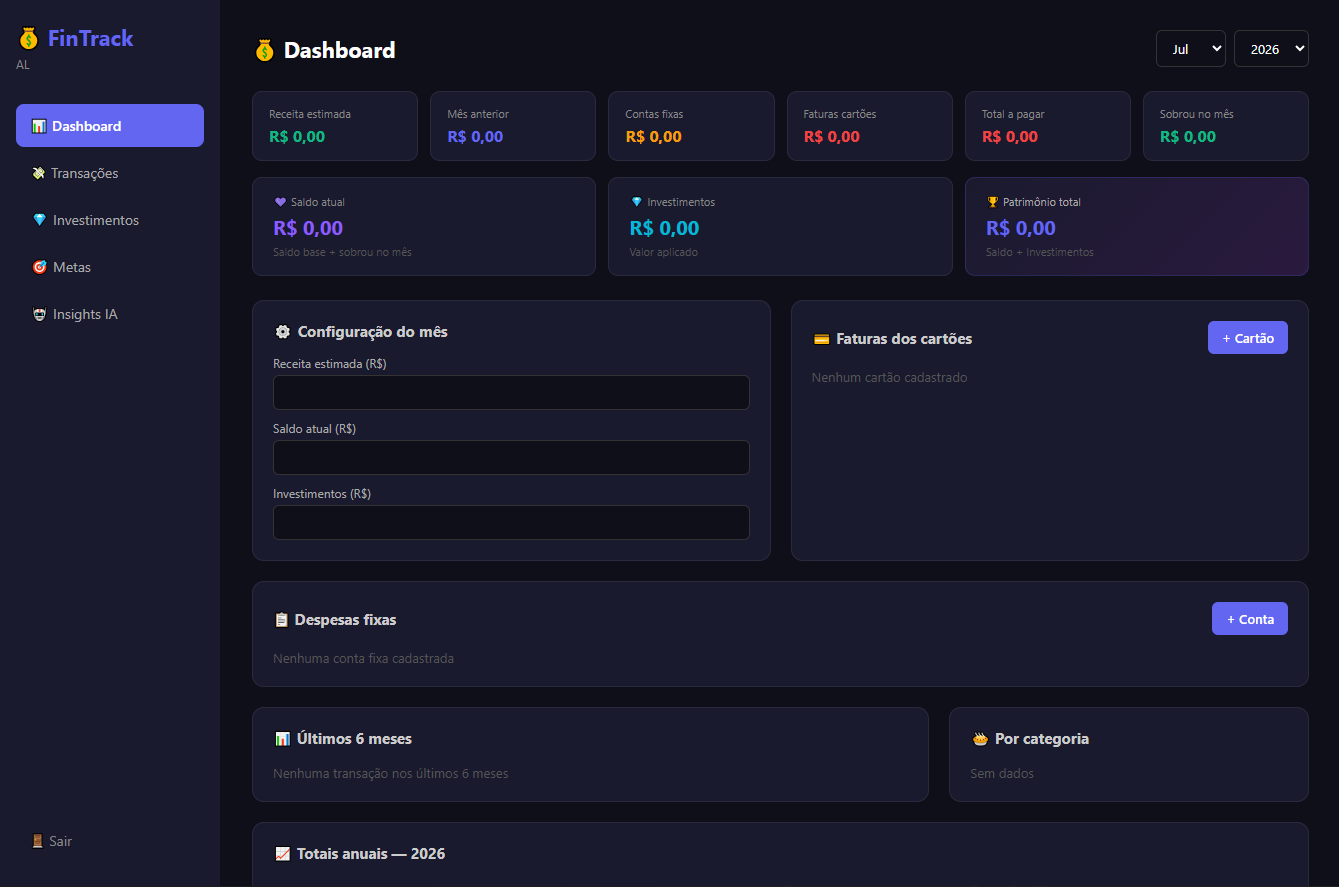
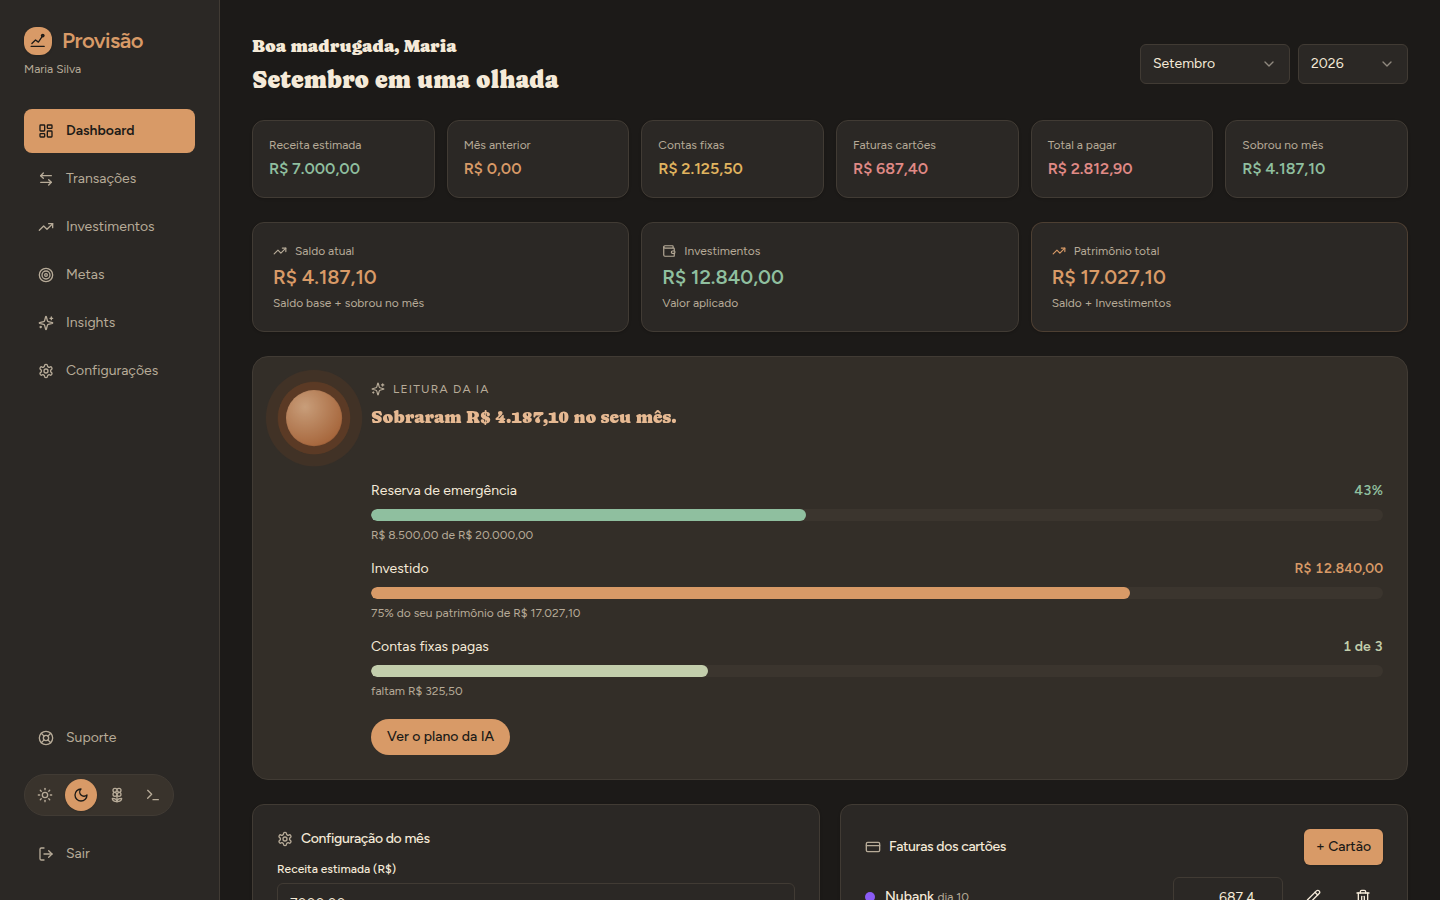
docs: atualiza o README com a versao atual do produto
O README descrevia um estado que nao existe mais ha varias sessoes: JWT com
access + refresh token, endpoints /auth/register e /auth/login, Jest, "10
testes", link para o subdominio antigo da Vercel. Reescrito contra o codigo de
verdade, nao pela memoria da conversa - cada endpoint e numero foi conferido
antes de entrar aqui.

Mudancas principais:

- Autenticacao: Better Auth substitui a secao inteira de JWT. Login com
  Google (com vinculacao de conta), 2FA, verificacao de e-mail, recuperacao de
  senha, sessoes ativas e alerta de acesso novo, que nao existiam quando o
  README foi escrito.
- Secao nova de Seguranca: rate limiting em duas camadas (IP + conta), helmet,
  CodeQL, Dependabot, gitleaks, npm audit no CI - area de maior investimento
  do projeto, e o README nao mencionava nenhuma.
- Stack: Drizzle Kit (migrations versionadas), Tailwind + shadcn/ui (o
  redesign inteiro, quatro temas), Resend, Vitest no lugar do Jest.
- Screenshot novo do dashboard (tema Organic escuro, a pedido), gerado com uma
  conta de demonstracao local - populada via API com dados ficticios e
  descartada depois, nunca dado real de producao. O aviso de "confirme seu
  e-mail" foi fechado antes do print de proposito: e estado da conta de teste,
  nao o que o dashboard mostra normalmente.
- Link ao vivo trocado para o dominio proprio (provisao.space).
- Endpoints e contagem de testes (67, Vitest + Supertest) conferidos contra o
[…]

diff --git a/README.md b/README.md
@@ -1,77 +1,104 @@
 # 💰 Provisão
 
-> Sistema completo de gestão financeira pessoal com análise por Inteligência Artificial
+> Gestão financeira pessoal com análise por Inteligência Artificial — login com Google, 2FA e sessões protegidas contra roubo.
 
-**🔗 [Acesse o app ao vivo](https://fintrack-web-ivory.vercel.app/login)** · **[API em produção](https://fintrack-api-oyjx.onrender.com/health)**
+**🔗 [Acesse o app ao vivo](https://provisao.space)** · **[API em produção](https://fintrack-api-oyjx.onrender.com/health)**
 
 ![CI](https://github.com/dev-alef/fintrack/actions/workflows/ci.yml/badge.svg)
+![CodeQL](https://github.com/dev-alef/fintrack/actions/workflows/codeql.yml/badge.svg)
+![Segurança](https://github.com/dev-alef/fintrack/actions/workflows/seguranca.yml/badge.svg)
 
 ---
 
 ## 📸 Preview
 
-<!-- Adicione aqui um print do dashboard -->
 ![Dashboard da Provisão](docs/dashboard.png)
 
 ## ✨ Funcionalidades
 
-- 🔐 **Autenticação completa** — registro, login, JWT com access + refresh token
-- 📊 **Dashboard financeiro** — receita estimada, saldo calculado automaticamente, patrimônio total
+- 🔐 **Autenticação completa** — cadastro, login, **login com Google** (com vinculação de conta), verificação de e-mail e recuperação de senha
+- 🔒 **2FA por TOTP** — QR code, aplicativo autenticador, códigos de backup com regeneração
+- 🛡 **Proteção contra roubo de sessão** — alerta por e-mail em acesso de dispositivo novo, tela de sessões ativas com opção de encerrar, sessão curta com renovação automática no uso
+- 📊 **Dashboard financeiro** — receita estimada, saldo calculado automaticamente, patrimônio total, gráfico anual de entradas e saídas
 - 💳 **Controle de cartões** — cartões personalizáveis com faturas mensais e totais anuais
 - 📋 **Despesas fixas** — controle de contas com status pago/pendente por mês
 - 💸 **Transações** — CRUD completo com filtros, paginação e categorias
 - 💎 **Carteira de investimentos** — tipos personalizados, rentabilidade, distribuição
-- 🧮 **Calculadora de juros compostos** — com gráfico de evolução
 - 🎯 **Metas financeiras** — progresso automático com barra visual
-- 🤖 **Insights com IA** — análise financeira personalizada via Google Gemini
+- 🤖 **Insights com IA** — análise financeira personalizada via Google Gemini, persistente durante a navegação
+- 🎨 **Quatro temas** — claro, escuro, rosa e um tema "tech" inspirado em terminal
+- 💬 **Canal de suporte** — formulário dentro do app, enviado por e-mail
 - 📱 **Design responsivo** — funciona em desktop e mobile
+
+## 🔒 Segurança
+
+Área de maior investimento do projeto:
+
+- **Better Auth** — sessão server-side em cookie `httpOnly` + `Secure`, com revogação real (nada de refresh token que sobrevive ao logout)
+- **Rate limiting em duas camadas** — por IP (resolvendo a cadeia real de proxies, imune a cabeçalho forjado) e **por conta** (bloqueia após falhas repetidas de login, independente de quantos IPs o atacante usar)
+- **`helmet`** com política de cabeçalhos ajustada para API cross-origin
+- **CodeQL, Dependabot, `npm audit` e gitleaks** rodando no CI a cada PR
+- Alertas de segurança tratados como código: cada falso positivo é investigado e corrigido, não silenciado
 
 ## 🛠 Stack
 
 **Backend**
 - Node.js + TypeScript + Express
-- PostgreSQL (queries SQL nativas com agregações)
-- Redis (provisionado para cache — middleware pronto, ainda não plugado nas rotas)
-- JWT (autenticação com refresh token)
-- Zod (validação de dados em auth, transações e criação de metas)
-- Google Gemini AI (análise financeira)
+- PostgreSQL, com queries SQL nativas + agregações
+- **Drizzle Kit** — migrations versionadas, com lock e histórico
+- **Better Auth** — sessões, OAuth com Google, 2FA, verificação de e-mail e recuperação de senha
+- **Zod** — validação em transações e metas
+- **Resend** — e-mail transacional (verificação, recuperação, alertas, suporte)
+- **Sentry** — monitoramento de erro, com filtro de dado sensível antes do envio
+- Google Gemini AI — análise financeira
+- Redis provisionado para cache (middleware pronto, ainda não plugado nas rotas)
 
 **Frontend**
 - React 18 + TypeScript + Vite
+- **Tailwind CSS v4 + shadcn/ui** (Radix primitives) — sistema de tokens de design, quatro temas
 - React Query (sincronização com API)
 - Zustand (estado global)
 - Recharts (gráficos)
 - React Router (navegação SPA)
+- Sentry (erros do frontend)
 
 **DevOps**
 - Docker + Docker Compose (ambiente local)
-- GitHub Actions (CI com testes automatizados)
-- Render (deploy backend)
-- Neon (PostgreSQL serverless)
-- Vercel (deploy frontend)
+- **Vitest + Supertest** — testes de integração contra Postgres real
+- GitHub Actions — CI, CodeQL, gitleaks e `npm audit`, Dependabot semanal
+- Render (deploy backend) · Neon (PostgreSQL serverless) · Vercel (deploy frontend, com proxy para cookies de primeira-parte)
 
 ## 🏗 Arquitetura
 
 ```
 fintrack/
 ├── apps/
-│   ├── api/                  # Backend Node.js
+│   ├── api/                     # Backend Node.js
 │   │   └── src/
-│   │       ├── controllers/  # Camada de requisição/resposta
-│   │       ├── services/     # Lógica de negócio
-│   │       ├── routes/       # Definição de endpoints
-│   │       ├── middlewares/  # Auth JWT, cache (middleware pronto, ainda não plugado)
-│   │       ├── db/           # Cliente PostgreSQL + migrations
-│   │       └── __tests__/    # Testes com Jest + Supertest
-│   └── web/                  # Frontend React
+│   │       ├── auth.ts              # Configuração central do Better Auth
+│   │       ├── ip-cliente.ts        # Resolução de IP real por trás de proxy
+│   │       ├── limite-por-conta.ts  # Rate limiting por conta
+│   │       ├── acesso-novo.ts       # Alerta de login em dispositivo novo
+│   │       ├── emails/              # Templates de e-mail transacional
+│   │       ├── controllers/         # Camada de requisição/resposta
+│   │       ├── services/            # Lógica de negócio
+│   │       ├── routes/              # Definição de endpoints
+│   │       ├── middlewares/         # Auth, cache (pronto, ainda não plugado)
+│   │       ├── db/                  # Cliente PostgreSQL + schema
+│   │       ├── drizzle/             # Migrations versionadas
+│   │       └── __tests__/           # Testes com Vitest + Supertest
+│   └── web/                     # Frontend React
 │       └── src/
-│           ├── pages/        # Telas da aplicação
-│           ├── components/   # Componentes reutilizáveis
-│           ├── hooks/        # React Query hooks
-│           ├── services/     # Cliente HTTP (axios)
-│           └── store/        # Estado global (Zustand)
-├── .github/workflows/        # Pipeline CI/CD
-└── docker-compose.yml        # PostgreSQL + Redis + pgAdmin
+│           ├── pages/         # Telas da aplicação
+│           ├── components/    # Componentes reutilizáveis + shadcn/ui
+│           ├── hooks/         # React Query hooks
+│           ├── lib/           # Cliente do Better Auth
+│           ├── services/      # Cliente HTTP (axios)
+│           └── store/         # Estado global (Zustand)
+├── .github/
+│   ├── workflows/                # CI, CodeQL, Segurança
+│   └── dependabot.yml
+└── docker-compose.yml            # PostgreSQL + Redis + pgAdmin
 ```
 
 ## 🚀 Como rodar localmente
@@ -94,6 +121,9 @@ docker compose up -d
 cp apps/api/.env.example apps/api/.env
 cp apps/web/.env.example apps/web/.env
 
+# Gere o segredo do Better Auth e cole em apps/api/.env:
+openssl rand -base64 32
+
 # 4. Instale as dependências
 npm install
 
@@ -110,6 +140,8 @@ npm run dev
 - **Web:** http://localhost:5173
 - **pgAdmin:** http://localhost:5050
 
+Login com Google, e-mail transacional e IA são opcionais localmente — sem as credenciais correspondentes, cada recurso desliga sozinho com uma mensagem clara, sem quebrar o resto do app (e-mail cai no log do terminal, com o link clicável).
+
 ## 🧪 Testes
 
 ```bash
@@ -117,21 +149,25 @@ cd apps/api
 npm test
 ```
 
-10 testes cobrindo autenticação (registro, login, tokens, senhas inválidas) e transações (CRUD, filtros, autorização, validação) — finanças, investimentos, metas e insights ainda sem cobertura automatizada.
+67 testes automatizados (Vitest + Supertest, contra Postgres real em container) cobrindo autenticação, login com Google com vinculação de conta, 2FA, verificação de e-mail, recuperação de senha, resolução de IP e rate limiting (por IP e por conta), sessões ativas, alerta de acesso novo, suporte e transações — finanças, investimentos, metas e insights ainda sem cobertura automatizada.
 
 ## 📡 Principais endpoints
 
 | Método | Rota | Descrição |
 |--------|------|-----------|
-| POST | `/auth/register` | Criar conta |
-| POST | `/auth/login` | Login (retorna access + refresh token) |
-| POST | `/auth/refresh` | Renovar access token |
+| POST | `/api/auth/sign-up/email` | Criar conta |
+| POST | `/api/auth/sign-in/email` | Login (sessão em cookie `httpOnly`) |
+| POST | `/api/auth/sign-in/social` | Login com Google (`{ provider: "google" }`) |
+| POST | `/api/auth/two-factor/enable` | Ativar 2FA |
+| GET | `/api/auth/list-sessions` | Sessões ativas |
 | GET | `/transactions` | Listar com filtros e paginação |
 | GET | `/transactions/summary` | Resumo com agregações SQL |
 | GET | `/finance/cards` | Cartões de crédito |
 | GET | `/finance/payments` | Contas fixas com status |
 | GET | `/investments/portfolio` | Resumo da carteira |
+| GET | `/goals` | Metas financeiras |
 | GET | `/insights` | Análise financeira com IA |
+| POST | `/suporte` | Enviar mensagem de suporte |
 
 ## 👨💻 Autor
 
